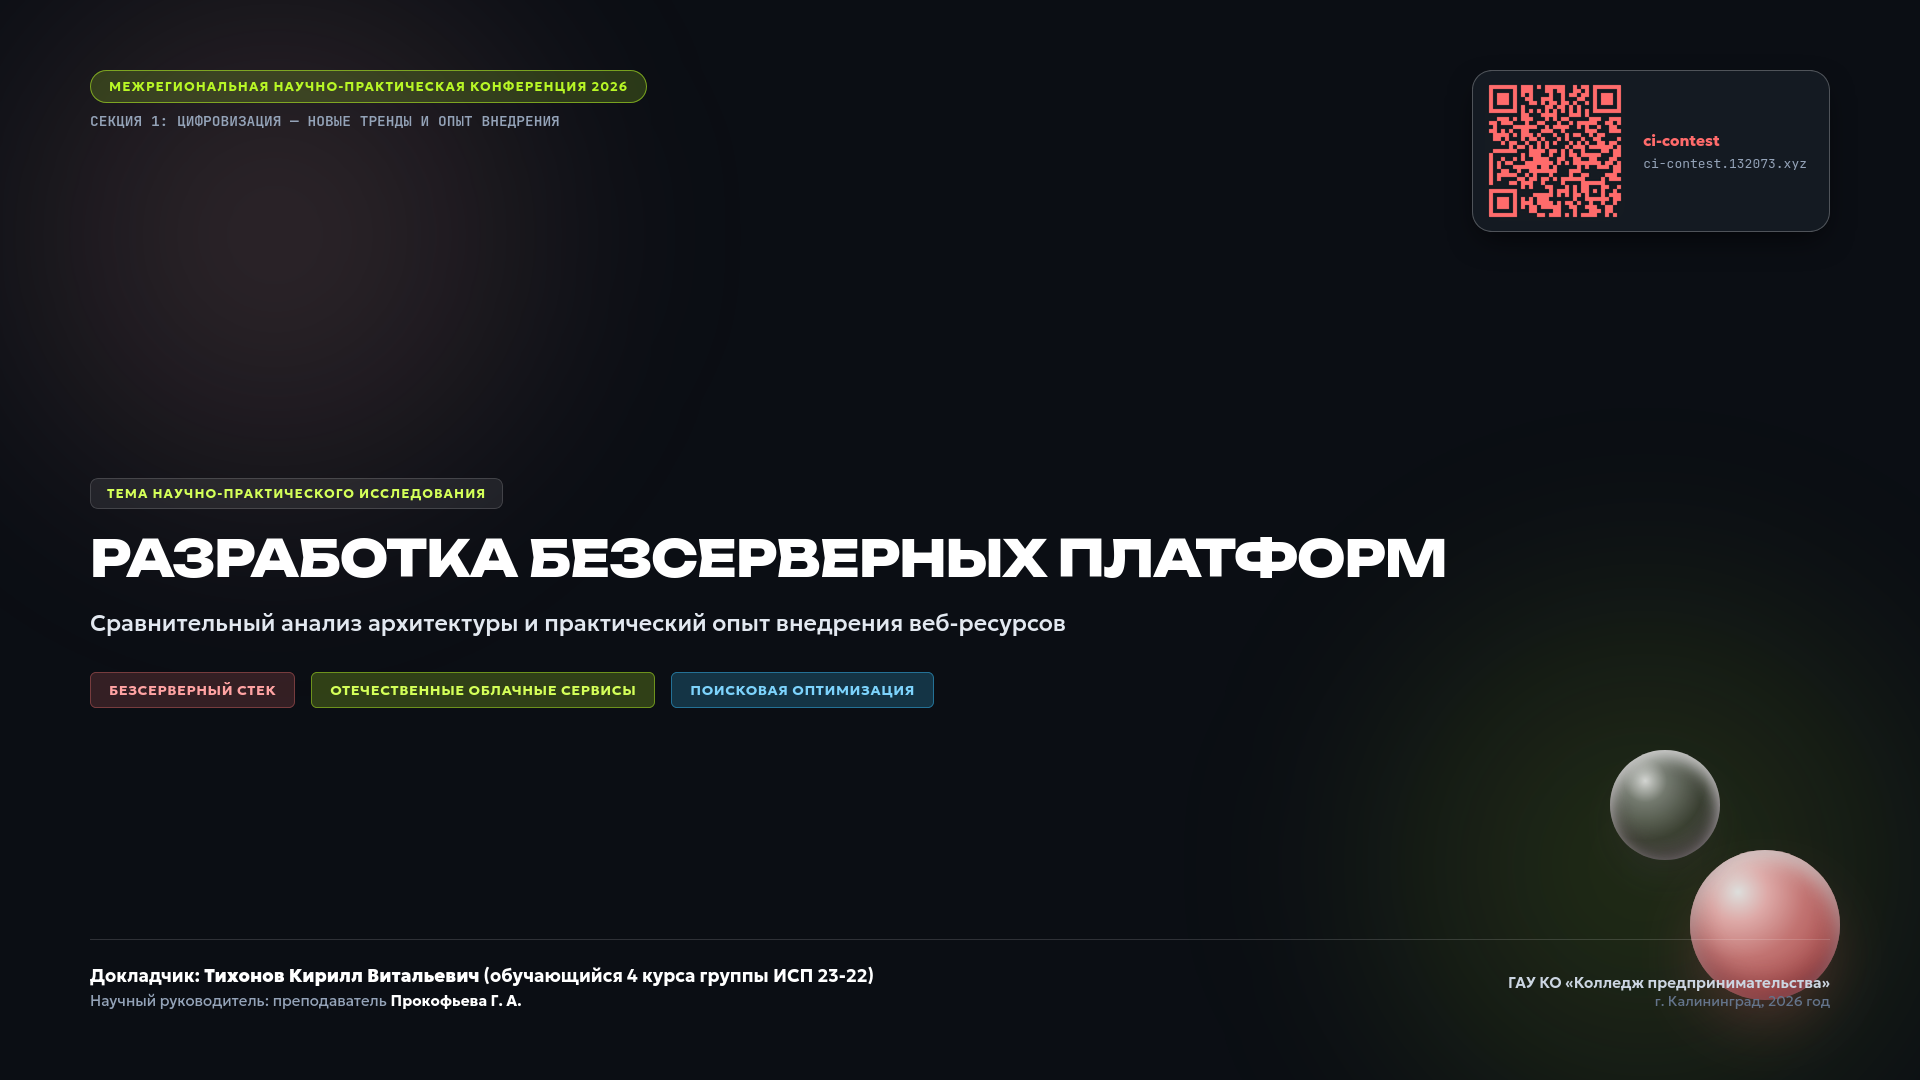
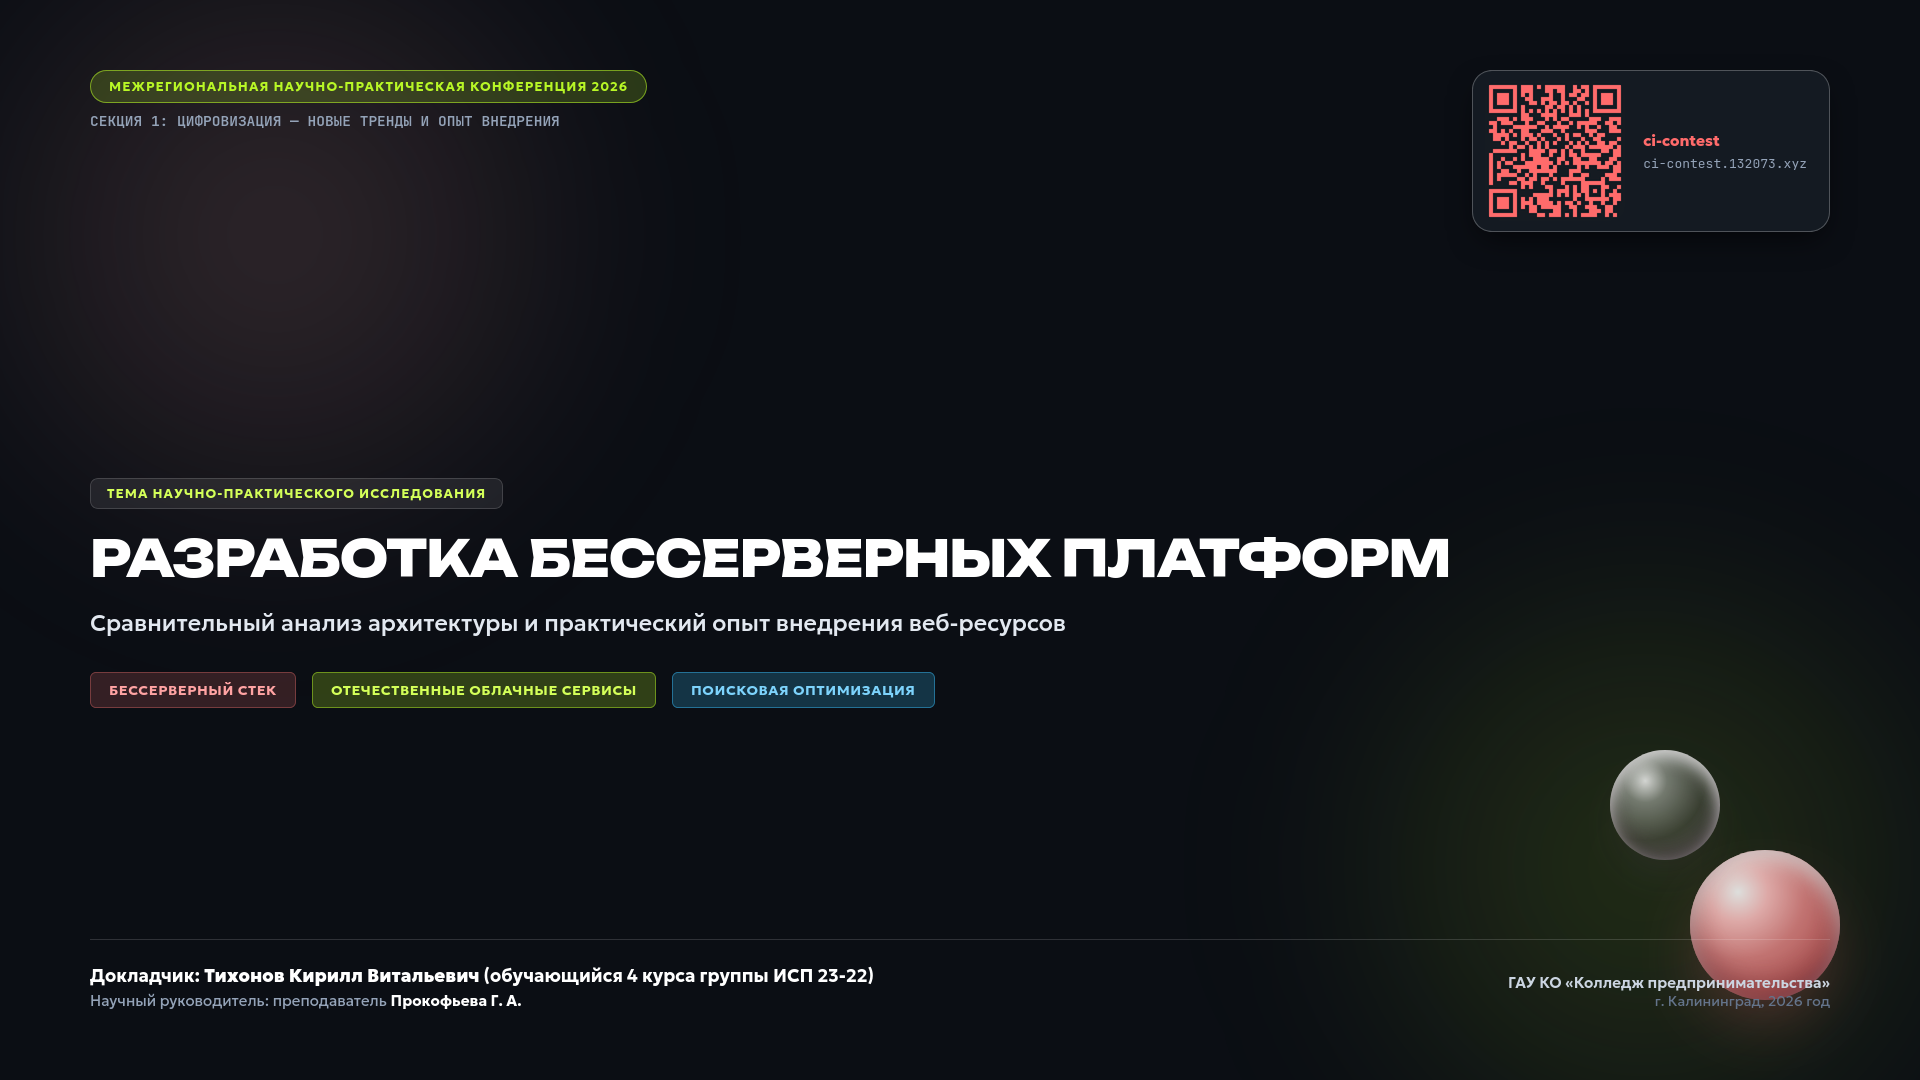
perf: load styles before fonts to prevent layout shift and update remote slides

Changed region(s): [[0.3125, 0.4889, 0.75, 0.55], [0.4375, 0.6111, 0.4688, 0.6417]]

diff --git a/src/app.html b/src/app.html
@@ -2,17 +2,22 @@
 <html lang="ru">
 	<head>
 		<meta charset="utf-8" />
-		<link rel="icon" href="%sveltekit.assets%/svg/company-logo.svg" />
 		<meta name="viewport" content="width=device-width, initial-scale=1.0, viewport-fit=cover" />
+		<title>КИ в РФ — Всероссийский конкурс креативных индустрий</title>
+
+		<!-- 1. Стили приложения (грузятся в первую очередь, чтобы исключить сдвиги макета) -->
+		%sveltekit.head%
+
+		<!-- 2. Шрифты (грузятся после стилей, чтобы ничего не прыгало) -->
+		<link rel="preconnect" href="https://fonts.googleapis.com" />
+		<link rel="preconnect" href="https://fonts.gstatic.com" crossorigin />
+		<link rel="stylesheet" href="https://fonts.googleapis.com/css2?family=Geologica:wght@400;500;600;700;800&family=Roboto:wght@400;500;700&family=Unbounded:wght@600;700;800;900&display=swap" />
+
+		<link rel="icon" href="%sveltekit.assets%/svg/company-logo.svg" />
 		<meta name="theme-color" content="#fff9f9" />
 		<meta name="robots" content="noindex, nofollow, noarchive, nosnippet, noimageindex" />
 		<meta name="googlebot" content="noindex, nofollow" />
 		<meta name="yandex" content="none" />
-		
-		<!-- Preconnect для шрифтов -->
-		<link rel="preconnect" href="https://fonts.googleapis.com" />
-		<link rel="preconnect" href="https://fonts.gstatic.com" crossorigin="anonymous" />
-		<link rel="stylesheet" href="https://fonts.googleapis.com/css2?family=Geologica:wght@400;500;600;700;800&family=Roboto:wght@400;500;700&family=Unbounded:wght@600;700;800;900&display=swap" />
 		
 		<!-- Remix Icon CSS -->
 		<link rel="stylesheet" href="https://cdn.jsdelivr.net/npm/remixicon@4.2.0/fonts/remixicon.css" media="print" onload="this.media='all'" />
@@ -20,9 +25,6 @@
 
 		<!-- Яндекс Формы embed (defer для мгновенной загрузки страницы) -->
 		<script defer src="https://forms.yandex.ru/_static/embed.js"></script>
-		
-		<title>КИ в РФ — Всероссийский конкурс креативных индустрий</title>
-		%sveltekit.head%
 	</head>
 	<body data-sveltekit-preload-data="hover">
 		<div style="display: contents">%sveltekit.body%</div>
